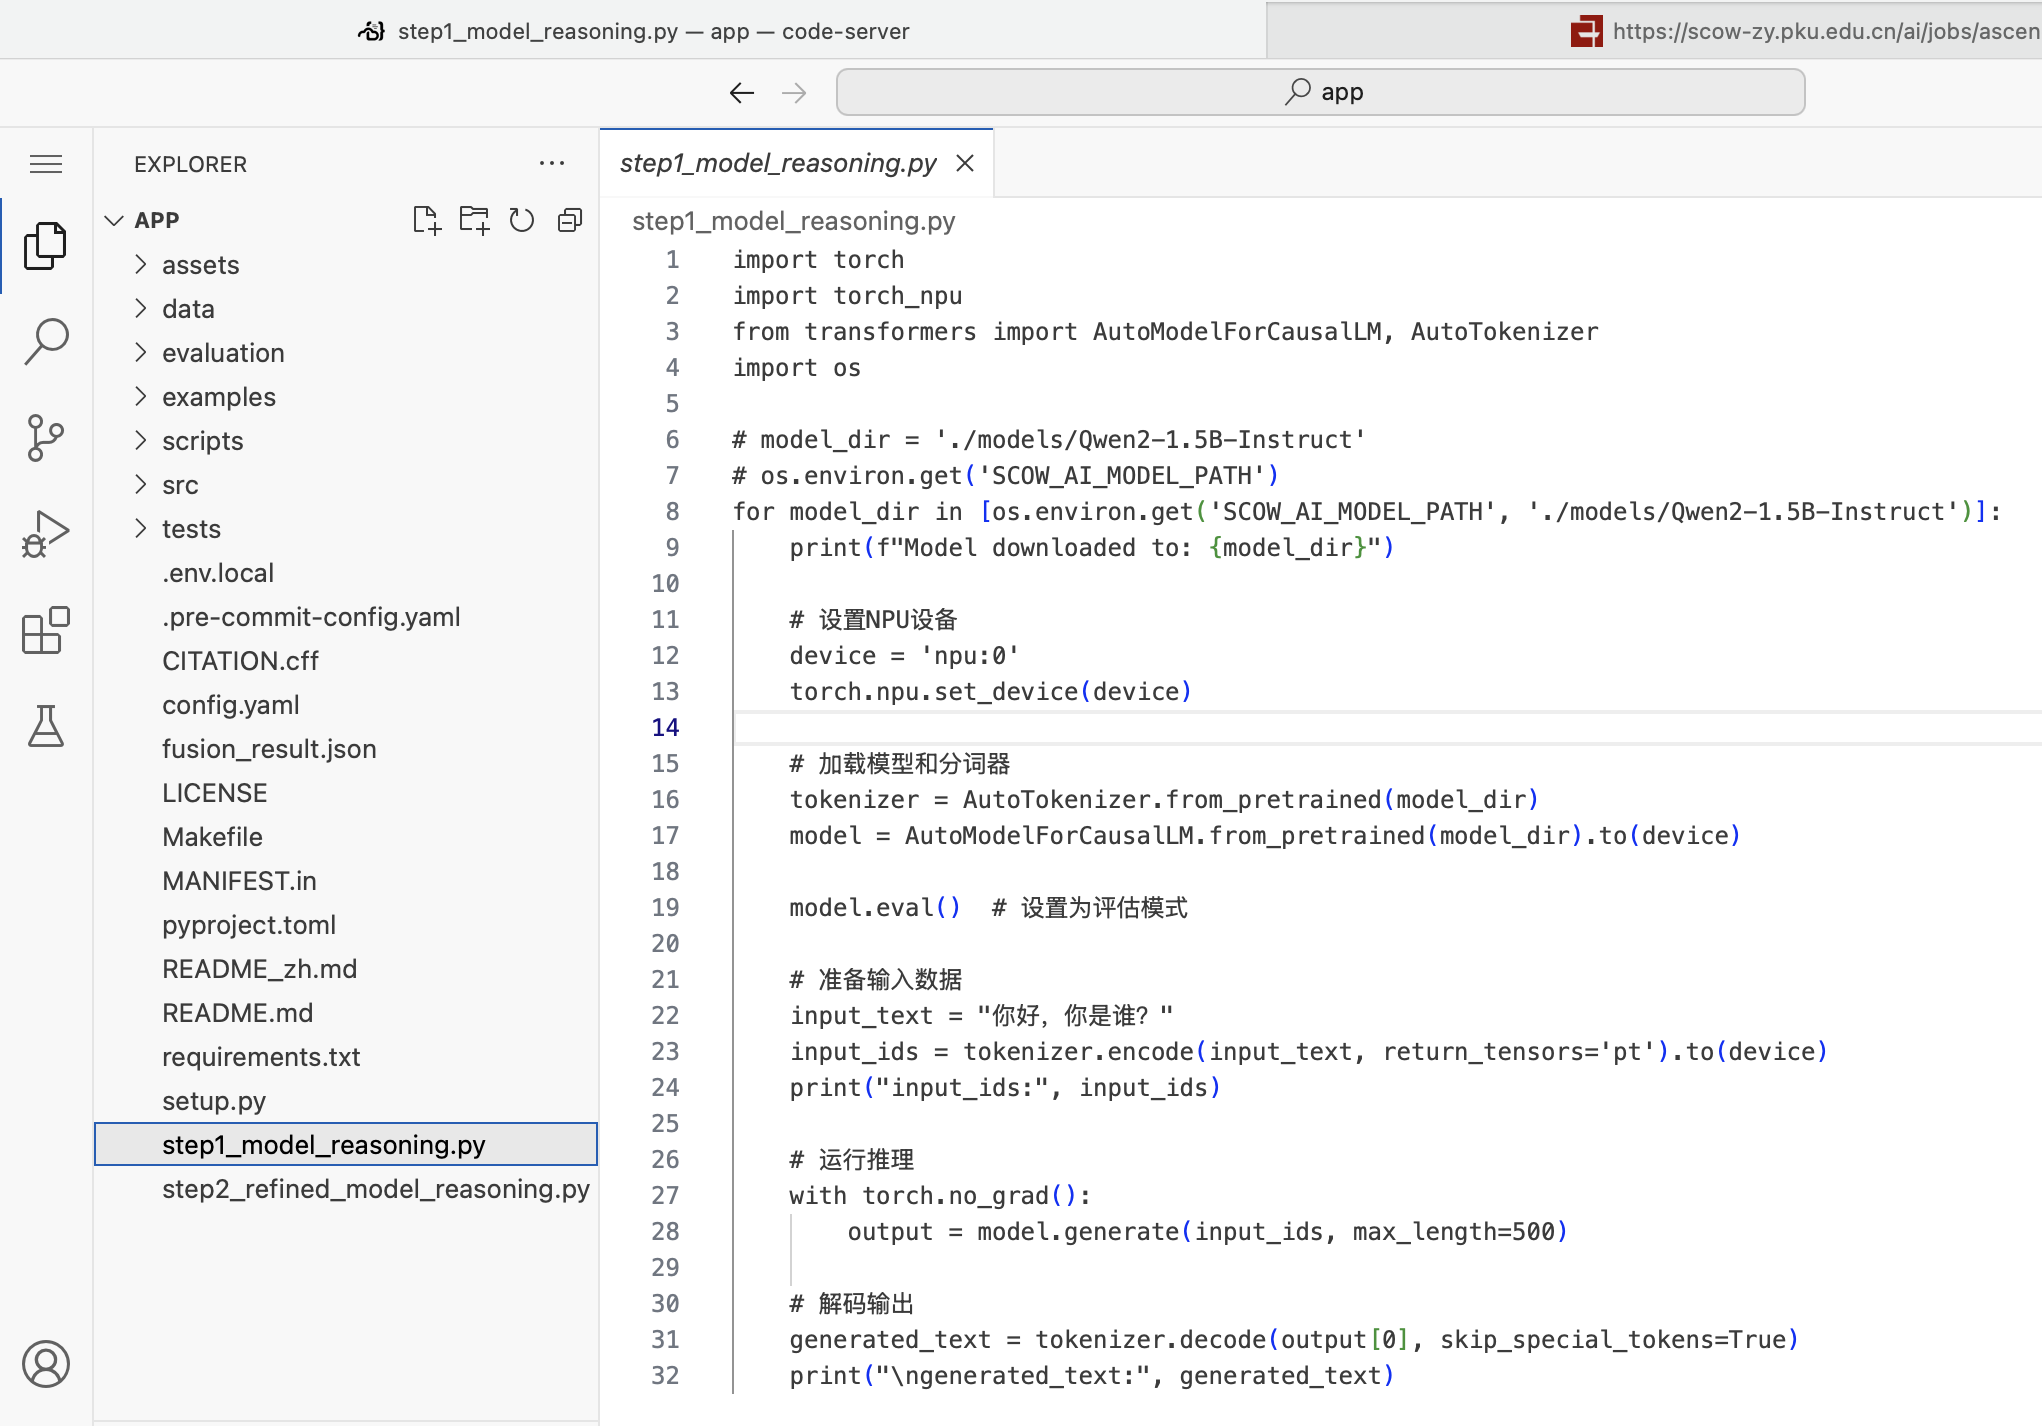
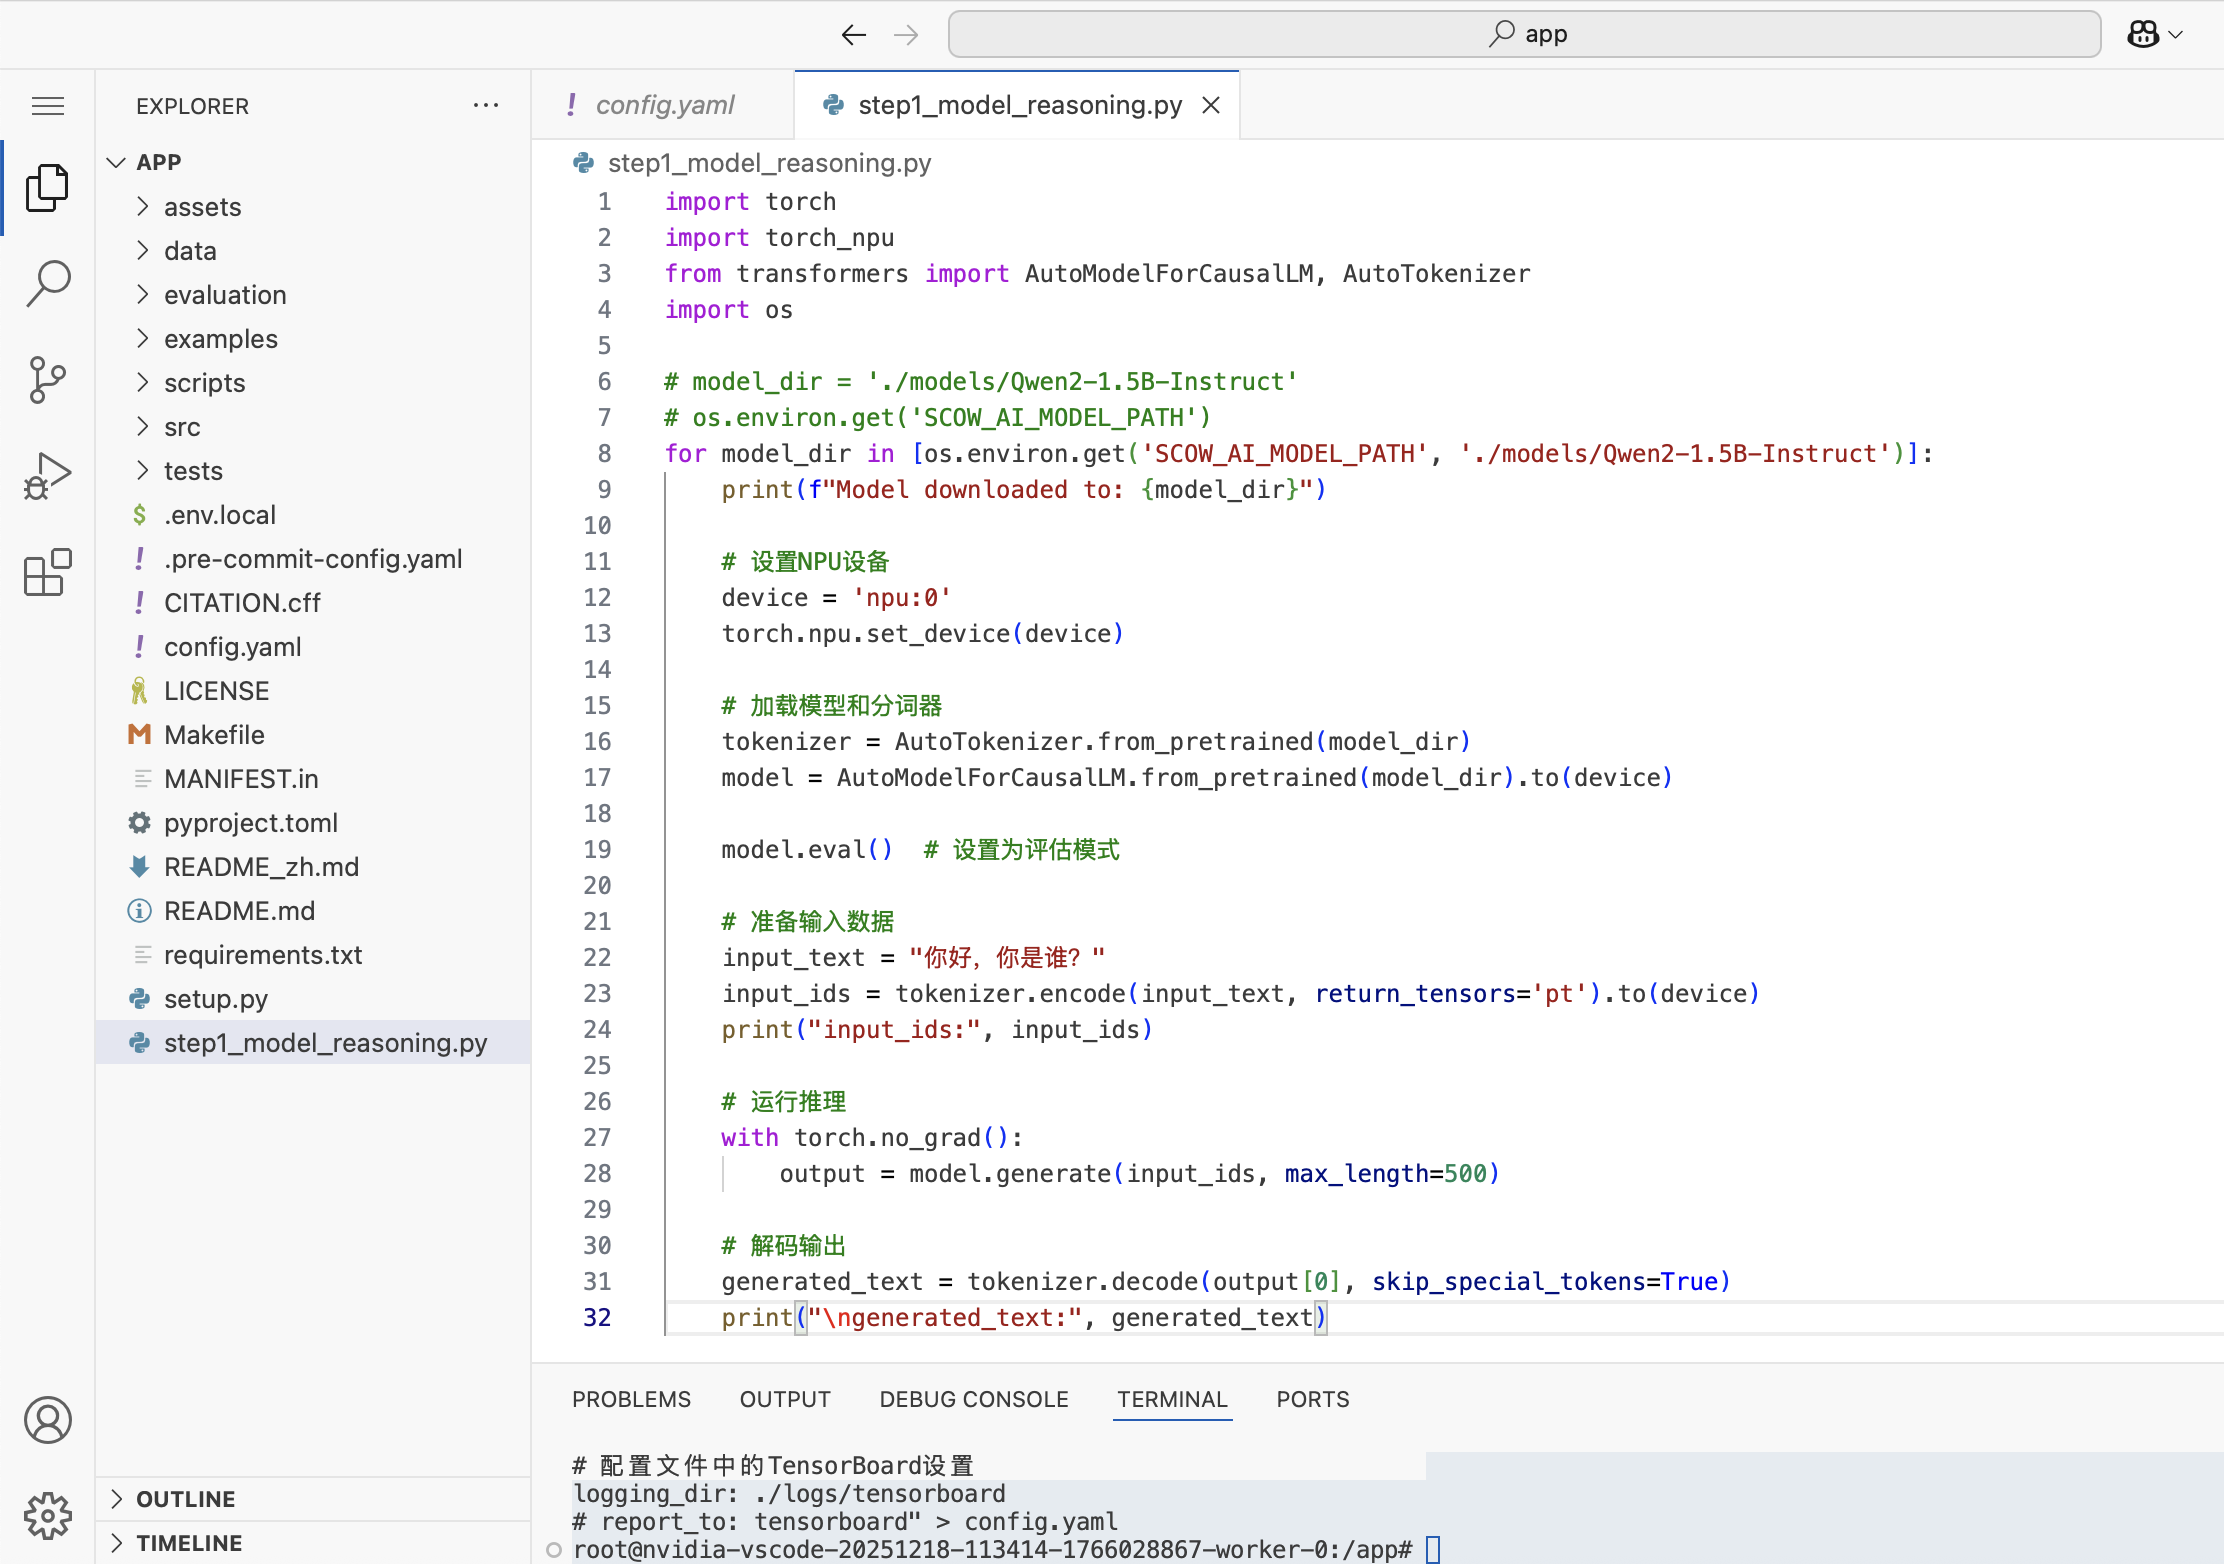
更新t9中的图片和步骤指令

diff --git a/Tutorial9_llama_factory单机单卡/tutorial9_llama_factory.md b/Tutorial9_llama_factory单机单卡/tutorial9_llama_factory.md
@@ -19,29 +19,36 @@
 
 1.2 创建交互式应用
 
-1.2.1 然后点击 作业 > 选择集群（这里ascend-k8s是AI集群的名称） > 应用 > 创建应用
+1.2.1 然后点击 作业 > 选择集群（这里AI实验集群是AI集群的名称） > 应用 > 创建应用
+
 ![alt text](assets/image-1.png)
 
 1.2.2 点击VSCode
+
 ![alt text](assets/image-2.png)
 
 在创建VSCode交互应用页面中，进行配置：
 
 1.2.3 拉取镜像
+
 选择镜像源 - 远程镜像
 运行命令 - 勾选 修改默认命令
-* 将 app-store-images.pku.edu.cn/hiyouga/llamafactory:0.9.4-npu-a2 拷贝后，粘贴到 远程镜像地址框中，用于平台根据镜像地址拉取相应的LLaMa-Factory镜像
+* 将 app-store-images.pku.edu.cn/hiyouga/llamafactory:0.9.4 拷贝后，粘贴到 远程镜像地址框中，用于平台根据镜像地址拉取相应的LLaMa-Factory镜像
 * 将 ${SCOW_AI_ALGORITHM_PATH}/bin/code-server 拷贝后，粘贴到 修改默认命令框中，用于平台启动VSCode应用
+
 ![alt text](assets/image-3.png)
 
 1.2.4 添加模型、算法、和数据集
-* 勾选添加类型 - 模型，下拉菜单中，选取 公共模型；模型下拉菜单中，选取 Qwen2.5-1.5B-Instruct(official) 模型，版本下拉菜单中，选取 latest
+* 勾选添加类型 - 模型，下拉菜单中，选取 公共模型；模型下拉菜单中，选取 Qwen2.5-1.5B-Instruct模型，版本下拉菜单中，选取 latest
+
 ![alt text](assets/image-4.png)
 
-* 勾选添加类型 - 算法，下拉菜单中，选取 公共算法；算法下拉菜单中，选取 code-server(official) 算法，版本下拉菜单中，选取 4.95.3，此时应可以看到算法描述部分显示启动命令，与1.1.4步骤中的启动命令是一致的
+* 勾选添加类型 - 算法，下拉菜单中，选取 公共算法；算法下拉菜单中，选取 code-server 算法，版本下拉菜单中，选取相应的版本，此时应可以看到算法描述部分显示启动命令，与1.1.4步骤中的启动命令是一致的
+
 ![alt text](assets/image-5.png)
 
 * 勾选添加类型 - 数据集，下拉菜单中，选取 我的数据集；数据集下拉菜单中，选取刚创建的 identity-pku-assistant（这里有你的用户名） 数据集，版本下拉菜单中，选取刚在数据集中设置的版本号；有多个版本的话，选取恰当的版本
+
 ![alt text](assets/image47.png)
 
 1.2.5 本教程采用单节点单卡，资源部分不需要修改。也可以根据实际需要，如单节点多卡的话，在 单节点加速卡卡数 中修改为2/4/8（单节点上限是8卡，卡数越多，对大模型训练的时间会相应缩短）然后点击 提交 按钮
@@ -50,22 +57,28 @@
 1.2.6 进入新创建的VScode应用的浏览器界面
 
 提交后，刚创建的作业在 未结束的作业 列表中，作业状态为 PENDING
+
 ![alt text](assets/image-7.png)
 
-点击 刷新 按钮，手动进行刷新后，作业状态转为 RUNNING
+点击 刷新 按钮，手动进行刷新后，作业状态转为 RUNNING 
+
 ![alt text](assets/image-8.png)
 
 在这条作业的操作中，点击 进入 图标，浏览器将打开新的页面来展示新创建的VScode应用
+
 ![alt text](assets/image-9.png)
 
 如果你是首次走到这一步，会看见如下弹窗，勾选 信任作者，并点击 信任作者 按钮
 ![alt text](assets/1.1.7-trust-author-popup.png)
 
 进入新创建的VScode交互应用的浏览器界面
+
 ![alt text](assets/image-10.png)
 
 1.2.7 打开app文件夹，之后的所有文件都将保存在这个文件夹下，之后的所有操作都将在这个文件夹下进行
+
 点选左侧导航栏中第二个选项，显示 打开文件夹 按钮
+
 ![alt text](assets/1.1.8-open-folder-icon.png)
 ![alt text](assets/1.1.8-open-folder.png)
 
@@ -112,9 +125,11 @@ logging_dir: ./logs/tensorboard
 ```
 
 2.1.2 粘贴到终端terminal，再按回车键执行这些代码，完成创建config.yaml 文件
+
 ![alt text](assets/image-42.png)
 
 2.1.3 查看在app文件夹中已经创建了 config.yaml 文件，点击这个文件，右侧上部的窗口中显示文件包含的内容
+
 ![alt text](assets/image-43.png)
 
 2.2 在app文件夹中创建 step1_model_reasoning.py 文件，这是作为模型微调前做推理的文件
@@ -127,7 +142,6 @@ logging_dir: ./logs/tensorboard
 2.2.3 拷贝下面代码:
 ```python
 import torch
-import torch_npu
 from transformers import AutoModelForCausalLM, AutoTokenizer
 import os
 
@@ -136,9 +150,9 @@ import os
 for model_dir in [os.environ.get('SCOW_AI_MODEL_PATH', './models/Qwen2-1.5B-Instruct')]:
     print(f"Model downloaded to: {model_dir}")
 
-    # 设置NPU设备
-    device = 'npu:0'
-    torch.npu.set_device(device)
+    # 设置GPU设备
+    device = torch.device('cuda:0')
+    torch.cuda.set_device(device)
 
     # 加载模型和分词器
     tokenizer = AutoTokenizer.from_pretrained(model_dir)
@@ -161,6 +175,7 @@ for model_dir in [os.environ.get('SCOW_AI_MODEL_PATH', './models/Qwen2-1.5B-Inst
 ```
 
 2.2.4 粘贴到已经打开的空白的 step1_model_reasoning.py 文件，这样就完成了文件创建
+
 ![alt text](assets/image-45.png)
 
 2.3 在app文件夹中创建 step2_refined_model_reasoning.py 文件，这是作为模型微调后做推理的文件
@@ -174,14 +189,12 @@ for model_dir in [os.environ.get('SCOW_AI_MODEL_PATH', './models/Qwen2-1.5B-Inst
 2.3.3 拷贝下面代码:
 ```python
 import torch
-import torch_npu
 from transformers import AutoModelForCausalLM, AutoTokenizer
 import os
 
-
-# 设置NPU设备
-device = 'npu:0'
-torch.npu.set_device(device)
+# 设置GPU设备
+device = torch.device('cuda:0')
+torch.cuda.set_device(device)
 
 # for model_dir in [os.environ.get('SCOW_AI_MODEL_PATH', './models/Qwen2-1.5B-Instruct'), '/root/LLaMA-Factory/models/Qwen2.5-1.5B-Instruct-output']:
 for model_dir in [os.environ.get('SCOW_AI_MODEL_PATH'), os.path.join(os.environ.get('WORK_DIR'), 'llama-factory-output')]:
@@ -208,49 +221,43 @@ for model_dir in [os.environ.get('SCOW_AI_MODEL_PATH'), os.path.join(os.environ.
 ```
 
 2.3.4 粘贴到已经打开的空白的 step2_refined_model_reasoning.py 文件，这样就完成了文件创建
+
 ![alt text](assets/image-46.png)
 ## 3、用镜像对模型进行推理、微调
 
 3.1 使用还没有经过微调的模型进行推理
 
 3.1.1 在右侧下半部的终端terminal中，粘贴命令 python step1_model_reasoning.py 再按回车键
+
 ![alt text](assets/image-44.png)
 
 3.1.2 在右侧下半部的终端terminal中，查看推理结果
 可以看到下载并使用的是 Qwen2.5-1.5B-Instruct 模型，任务是QWen大模型的身份认知，没有经过微调的大模型认为自己是 AI助手 通义千问
+
 ![alt text](assets/image-14.png)
-再次执行3.1.1的步骤，这次没有经过微调的大模型认为自己是 阿里云开发的AI助手
-![alt text](assets/image-15.png)
+
 
 3.2 对模型进行微调
 
-3.2.1 安装两个工具，这是为了llama factory的官方镜像可以正常使用
-* torch 
+3.2.1 在右侧下半部的终端terminal中，粘贴命令 llamafactory-cli train ./config.yaml 再按回车键
 
-在右侧下半部的终端terminal中，粘贴命令 pip3 install torch-npu==2.6.0 再按回车键，确保成功安装
-![alt text](assets/image-17.png)
-* torchvision 
-
-在右侧下半部的终端terminal中，粘贴命令 pip3 install torchvision==0.21.0 再按回车键，确保成功安装
-![alt text](assets/image-18.png)
-
-3.2.2 在右侧下半部的终端terminal中，粘贴命令 llamafactory-cli train ./config.yaml 再按回车键
 ![alt text](assets/image-19.png)
 
-3.2.3 在右侧下半部的终端terminal中，查看训练结果
-模型进行微调所用的参数等信息
+3.2.3 在右侧下半部的终端terminal中，查看训练结果，如模型进行微调所用的参数等信息
+
 ![alt text](assets/image-20.png)
 
 3.3 使用经过微调后的模型进行推理
 
 3.3.1 在右侧下半部的终端terminal中，粘贴命令 python step2_refined_model_reasoning.py 再按回车键
-![alt text](assets/image-21.png)
 
 3.3.2 在右侧下半部的终端terminal中，查看微调后的结果：
 可以看到使用的是 没有经过微调后的模型时，也就是Qwen2.5-1.5B-Instruct模型时，大模型认为自己是 通义千问
+
 ![alt text](assets/image-23.png)
 
 可以看到使用的是 经过微调后的模型时，大模型认为自己是 北大助手
+
 ![alt text](assets/image-24.png)
 
 ---
